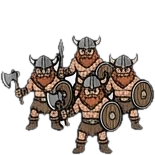
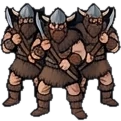
Give Casino its own add-on art from the Lounge sheet
Replaces the 18 add-ons Casino borrowed from Basic Clean: barbarians 1-3,
camel, the five cargo figures, citadel, crown, diocese, festival banner,
monument, nuke mark, prince, silo and village. The metropolis towers stay the
shared player-coloured towers approved today.

Claude-Session: https://claude.ai/code/session_01Sfzcs5BDfJYScEUTSDvCQ5

diff --git a/apps/web/src/theme/boards/casino.tsx b/apps/web/src/theme/boards/casino.tsx
@@ -6,9 +6,8 @@ import { paintedBoard } from './painted.tsx';
  * each with a bold icon on top, a deep night sea, crisp white pieces in the player's colour and
  * a bearded robber in red.
  *
- * Still borrowed from Basic Clean until the casino add-ons sheet arrives (src/art/casino/):
- * barb1-3, camel, cargo-*, citadel, crown, diocese, festival, metro-tower-*, metro-emblem-*, monument, nukemark,
- * prince, silo, village.
+ * Its add-ons (barbarians, camel, cargo, citadel, crown, diocese, festival, monument, silo …) come
+ * from the Lounge sheet; the metropolis towers are shared with Basic Clean, tinted per player.
  */
 export const casinoEmeraldBoard = paintedBoard({
   id: 'casino-emerald',
